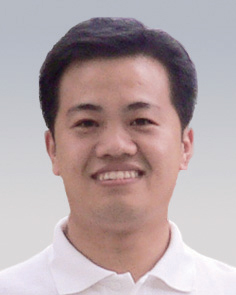
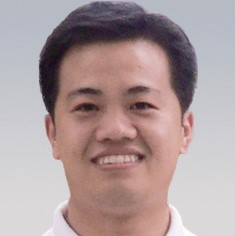
增加张老师个人主页

diff --git a/_layouts/homepagemain.html b/_layouts/homepagemain.html
@@ -17,7 +17,7 @@ layout: homepagedefault
         
       </ul>
     </section> <!-- End Section Contact -->
-    <div class="copyright">
+    <div class="copyright" style="text-align: center;">
       <p><a href="mailto:{{ page.email }}" style="color:black;">{{page.email}}</a></p>
     </div>
   </header> <!-- End Header -->

diff --git a/homepage_zhangguangyan.md b/homepage_zhangguangyan.md
@@ -1,29 +1,54 @@
 ---
 layout: homepagepost
 title: 清华大学HPCxx团队
-cname: 张广艳
-role: 教授
-img: assets/img/team/2.jpg
-email: chenjc20@mails.tsinghua.edu.cn
+cname: Guangyan Zhang
+role: Associate Professor
+img: assets/img/team/zgy.jpg
+email: gyzh@tsinghua.edu.cn
 ---
-**个人简介**
-* 魏星达，硕士生二年级，上海交通大学并行与分布式系统研究所。在陈海波教授和陈榕副教授的指导下，当前主要研究方向为分布式系统、数据库事务处理，利用新型硬件(如RDMA何RTM)的分布式系统。
-* 英文主页 https://ipads.se.sjtu.edu.cn/pub/members/jinyu_gu
+**Introduction**
+* **Guangyan Zhang** is an associate professor in the Department of Computer Science and Technology, where he joined since July 2008. He obtained his Ph.D degree from Tsinghua University under the guidance of **Prof. Weimin Zheng** and **Prof. Jiwu Shu**. Before that, he received the bachelor's and master's degrees in computer science from Jilin University in 2000 and 2003. 
+* He is a Professional Member of the ACM, a member of **the CCF technical committee of information storage technology**, a Communication Member of **CCF Task Force on Big Data**.
 
-**学术经历**
-* 2015.06 - 至今，上海交通大学并行与分布式系统研究所，硕士生，导师：陈海波
-* 2011.09 - 2015.06，上海交通大学软件学院，本科生，导师：夏虞斌
+**Education Background**
+* 1996.09 - 2000.07，理学学士 (计算机科学), 吉林大学, 中国
+* 2000.09 - 2003.07，工学硕士 (计算机科学与技术), 吉林大学, 中国
+* 2004.09 - 2008.07 ，工学博士 (计算机科学与技术)，清华大学, 中国
 
-**研究方向**
-* 容器系统安全性增加以及虚拟化性能优化。
+**Research**  
+--- His current research focuses on Big Data Computing, Storage Systems, and Distributed Systems, especially in:
+* Cloud Storage
+* RAID and Erasure Codes
+* Flash and PCM Storage
+* Storage Virtualization
+* Distributed File Systems
+* Deep Learning
+* Graph Computing
+* Stream Computing
+* Benchmarking
 
-**研究项目**
+**Courses**  
+--- He teaches three courses, one of which is for graduate students, and the others are for undergraduate students.
+* CS 70240013: Advanced Computer Architecture, for Ph.D and master students,
+* CS 40240443: Computer Architecture, for undergraduate students, and
+* CS 30240522: Program Design and Training, for undergraduate students.
 
-**发表论文**
-* **[FAST]** Heng Zhang, Mingkai Dong, and Haibo Chen. Efficient and available in-memory KV-store with hybrid erasure coding and replication. 14th USENIX Conference on File and Storage Technologies, 2016.
-
-**助教工作**
-* 2015.09 - 2016.01 上海交通大学 软件学院 计算机系统工程(CSE)（本科生）
-
-**获奖情况**
-* 2015.06 上海市优秀毕业生
+**Publications**
+<div class="container">
+      <div class="row">
+        <div class="col-lg-12">
+          <ul class="timeline">
+            {%- for event in site.data.sitetext.timeline.events -%}
+            <li class="timeline-inverted">
+                <h4 style="display: inline;">{{ event.title }}</h4>
+                <h6 style="display: inline;margin-left: 10px;">
+                      <a href="{{ event.link }}" style="color:dodgerblue;">[PDF]</a>
+                </h6>
+                  <div class="text-muted">{{ event.auth | markdownify }}</div>
+                  <div class="text-muted">{{ event.desc | markdownify }}</div>
+            </li>
+		  {% endfor %}	
+          </ul>
+        </div>
+      </div>
+    </div>
